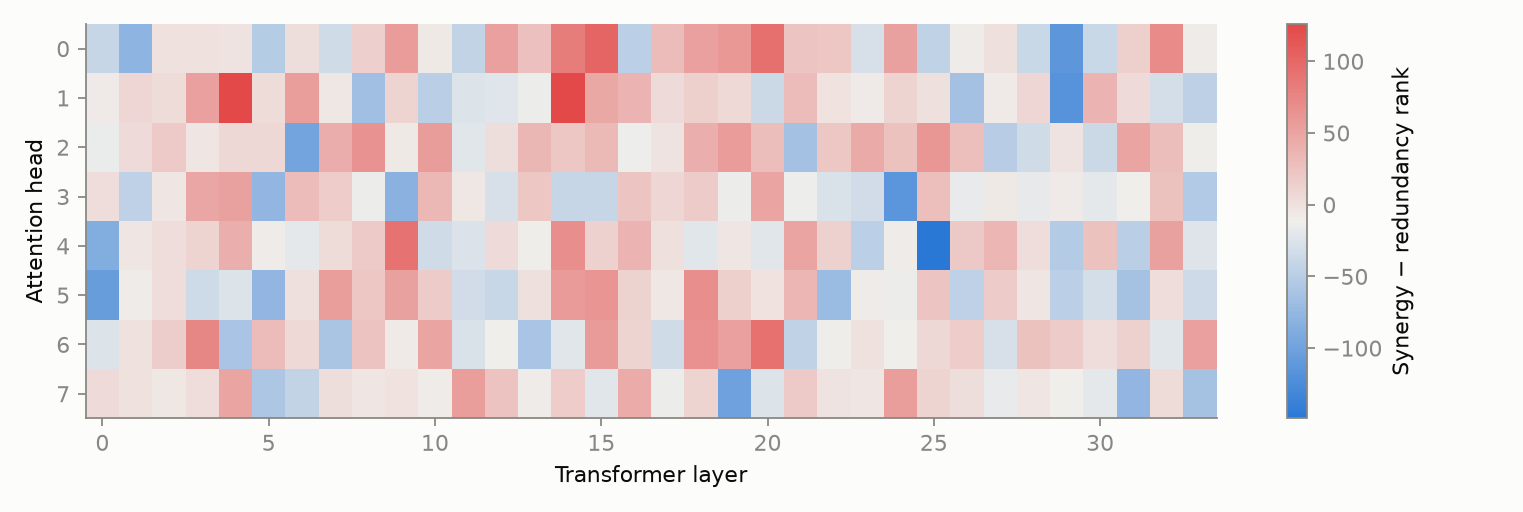
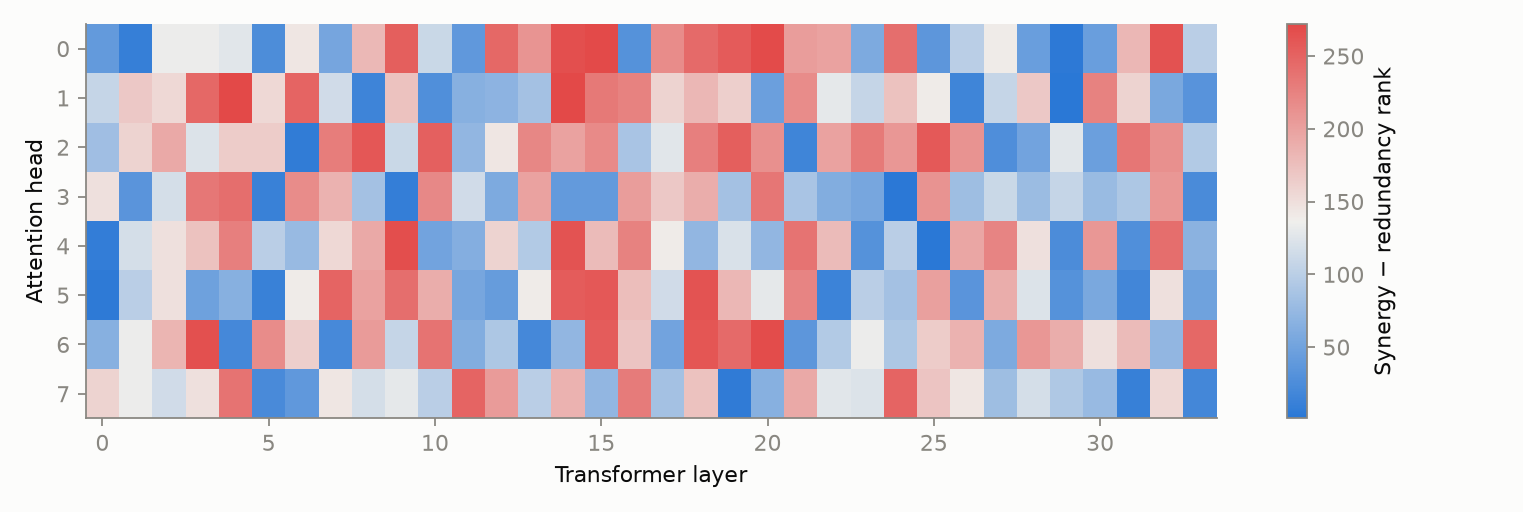
feat: re-rank syn-red difference to 1..N (paper Fig 2b scale)
rank(diff) instead of raw diff stops a few extreme heads dominating layer
means. Head order unchanged (spearman 1.0), so ablations are unaffected.
Saved rank.npy files recomputed from stored S_p/R_p.

diff --git a/src/syncore/phiid.py b/src/syncore/phiid.py
@@ -36,12 +36,14 @@ def syn_red_matrices(acts, tau=1, redundancy="MMI", n_jobs=8):
 
 
 def syn_red_rank(S, R):
-    """S, R: (N, N) prompt-averaged. Per head: mean over its pairs; rank(syn) − rank(red). Higher = more synergistic."""
+    """S, R: (N, N) prompt-averaged. Per head: mean over its pairs; rank(rank(syn) − rank(red)) in 1..N.
+    Higher = more synergistic. The outer re-rank matches the paper's Fig 2b scale (1..N, no negatives)
+    and stops a few extreme heads dominating layer means; head order is unchanged."""
     n = S.shape[0]
     off = ~np.eye(n, dtype=bool)
     syn = np.array([np.nanmean(S[i, off[i]]) for i in range(n)])
     red = np.array([np.nanmean(R[i, off[i]]) for i in range(n)])
-    return rankdata(syn) - rankdata(red)
+    return rankdata(rankdata(syn) - rankdata(red))
 
 
 def layer_profile(rank, n_layers):

diff --git a/tests/test_phiid.py b/tests/test_phiid.py
@@ -72,3 +72,11 @@ def test_singular_covariance_gives_nan():
     x = np.random.default_rng(0).standard_normal(50)
     syn, red = pair_syn_red(x, np.roll(x, -1))  # y_past == x_future -> singular joint covariance
     assert np.isnan(syn) and np.isnan(red)
+
+
+def test_rank_is_rerank_of_difference_1_to_n():
+    rng = np.random.default_rng(0)
+    S, R = rng.random((6, 6)), rng.random((6, 6))
+    S, R = S + S.T, R + R.T
+    r = syn_red_rank(S, R)
+    assert r.min() >= 1 and r.max() <= 6 and r.sum() == 21  # ranks 1..N (ties get averaged ranks)
